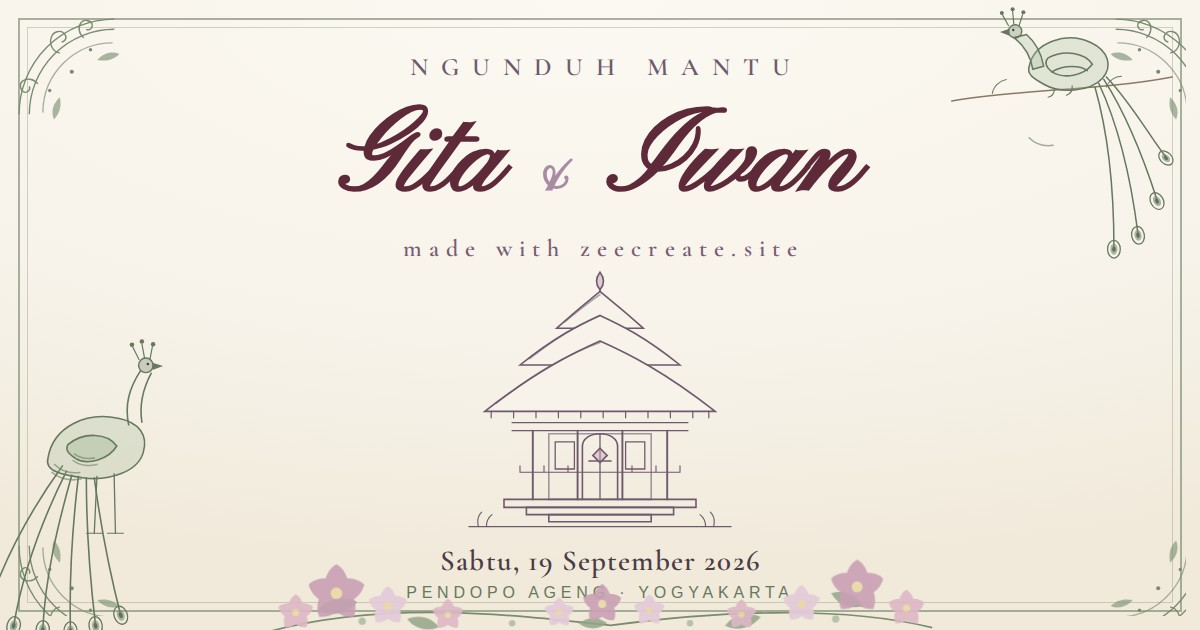
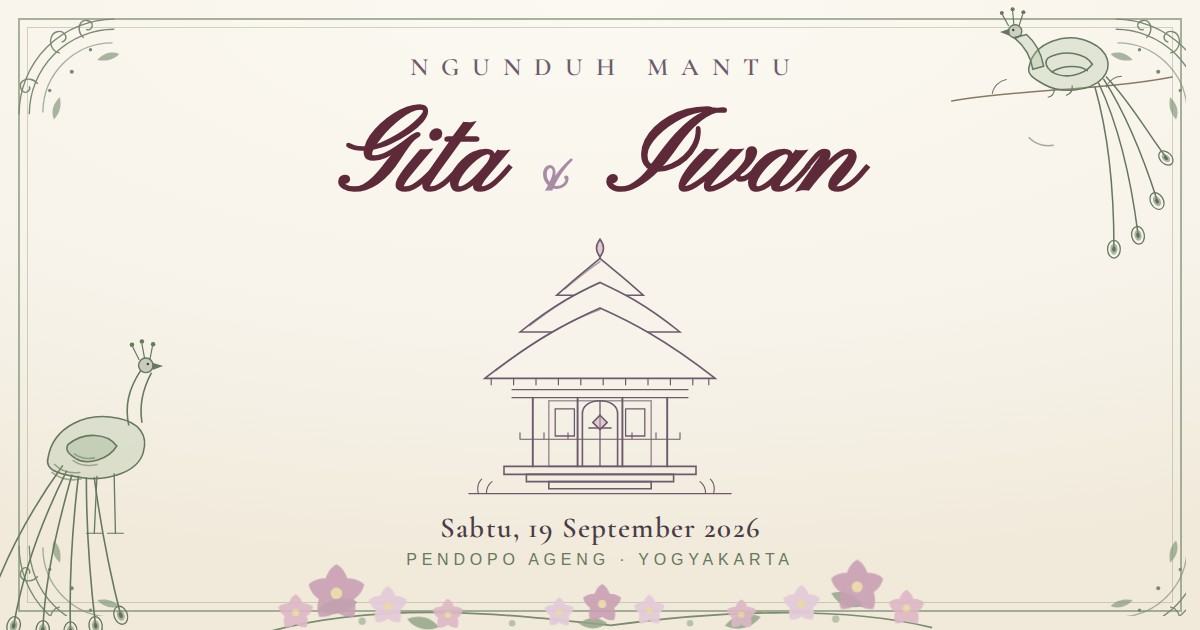
feat: kredit made with zeecreate.site di bawah nama pada web

diff --git a/script.js b/script.js
@@ -158,6 +158,7 @@
       .fromTo(charsA, { autoAlpha: 0, filter: "blur(14px)", y: 26 }, { autoAlpha: 1, filter: "blur(0px)", y: 0, duration: 1.05, stagger: 0.07 }, "-=0.4")
       .fromTo(amp, { autoAlpha: 0, scale: 0 }, { autoAlpha: 1, scale: 1, duration: 0.6, ease: "back.out(2.2)" }, "-=0.5")
       .fromTo(charsB, { autoAlpha: 0, filter: "blur(14px)", y: 26 }, { autoAlpha: 1, filter: "blur(0px)", y: 0, duration: 1.05, stagger: 0.07 }, "-=0.35");
+    tl.fromTo(".cover .made-credit", { autoAlpha: 0, y: 10 }, { autoAlpha: 1, y: 0, duration: 0.7 }, "-=0.5");
 
     /* joglo tergambar garis demi garis */
     var paths = gsap.utils.toArray("#jogloCover .draw");
@@ -218,7 +219,7 @@
     tl.fromTo(".hero-medallion", { autoAlpha: 0, scale: 0.6 }, { autoAlpha: 1, scale: 1, duration: 0.8 })
       .fromTo(".hero .kicker", { autoAlpha: 0, y: 14 }, { autoAlpha: 1, y: 0, duration: 0.6 }, "-=0.4")
       .fromTo(".hero-names span", { autoAlpha: 0, y: 40, filter: "blur(8px)" }, { autoAlpha: 1, y: 0, filter: "blur(0px)", duration: 0.9, stagger: 0.12 }, "-=0.3")
-      .fromTo(".hero .orn, .hero-date, .hero-place", { autoAlpha: 0, y: 14 }, { autoAlpha: 1, y: 0, duration: 0.6, stagger: 0.09 }, "-=0.45")
+      .fromTo(".hero .made-credit, .hero .orn, .hero-date, .hero-place", { autoAlpha: 0, y: 14 }, { autoAlpha: 1, y: 0, duration: 0.6, stagger: 0.09 }, "-=0.45")
       .fromTo(".hero-joglo", { autoAlpha: 0, y: 26 }, { autoAlpha: 1, y: 0, duration: 1 }, "-=0.35");
   }
 

diff --git a/index.html b/index.html
@@ -269,6 +269,7 @@
   <div class="cover-inner">
     <p class="cover-kicker" id="coverKicker">Ngunduh Mantu</p>
     <h1 class="intro-names" id="introNames"><span class="w">Gita</span><span class="amp">&amp;</span><span class="w">Iwan</span></h1>
+    <p class="made-credit">made with <a href="https://zeecreate.site" target="_blank" rel="noopener">zeecreate.site</a></p>
 
     <svg class="cover-joglo" id="jogloCover" viewBox="80 0 360 330" role="img" aria-label="Ilustrasi rumah joglo">
       <g fill="none" stroke="#6E5A6E" stroke-width="2" stroke-linecap="round">
@@ -319,6 +320,7 @@
     <p class="aksara" lang="jv">ꦱꦸꦒꦼꦁꦫꦮꦸꦃ</p>
     <p class="kicker">Ngunduh Mantu</p>
     <h2 class="script-names hero-names"><span>Gita</span><span class="amp">&amp;</span><span>Iwan</span></h2>
+    <p class="made-credit">made with <a href="https://zeecreate.site" target="_blank" rel="noopener">zeecreate.site</a></p>
     <svg class="orn" aria-hidden="true"><use href="#orn-divider"/></svg>
     <p class="hero-date">Sabtu, 19 September 2026</p>
     <p class="hero-place">Pendopo Ageng, Yogyakarta</p>
@@ -513,6 +515,7 @@
 
   <footer class="footer">
     <p>Contoh undangan digital. Nama, tanggal, dan nomor rekening bersifat fiktif; foto adalah placeholder referensi untuk keperluan demo.</p>
+    <p class="made-credit footer-credit">made with <a href="https://zeecreate.site" target="_blank" rel="noopener">zeecreate.site</a></p>
   </footer>
 </main>
 

diff --git a/style.css b/style.css
@@ -362,3 +362,9 @@ img{display:block;max-width:100%}
   .tl-body{order:2;flex:1 1 calc(100% - 76px)}
   .tl-photo{order:3;width:100%;aspect-ratio:16/9}
 }
+
+.made-credit{font-size:.7rem;letter-spacing:.3em;text-transform:lowercase;color:var(--mauve);text-align:center}
+.made-credit a{color:var(--plum);font-weight:600;text-decoration:none}
+.cover .made-credit{margin-top:4px}
+.hero .made-credit{margin-top:8px}
+.footer-credit{margin-top:10px;font-size:.66rem}
